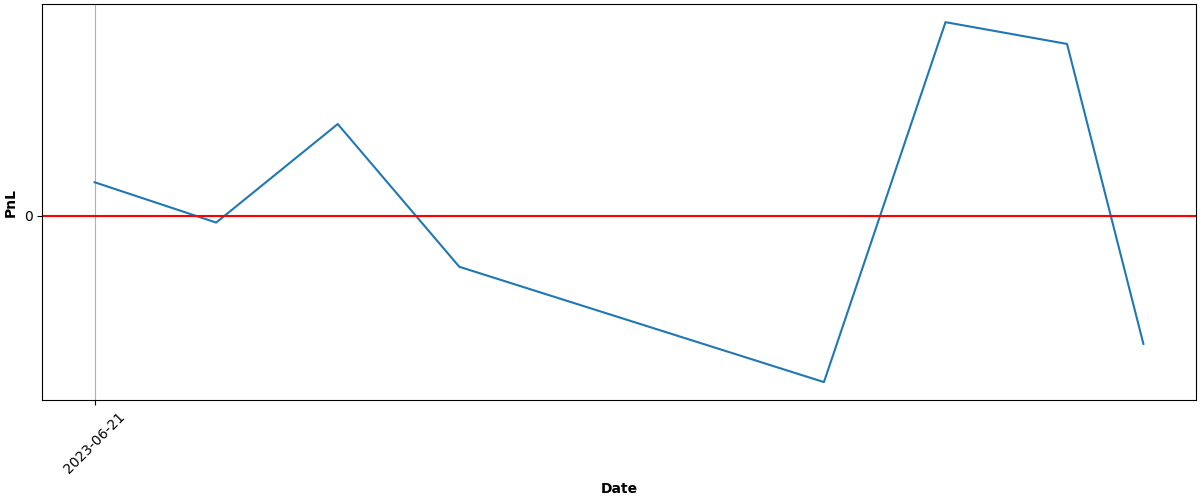
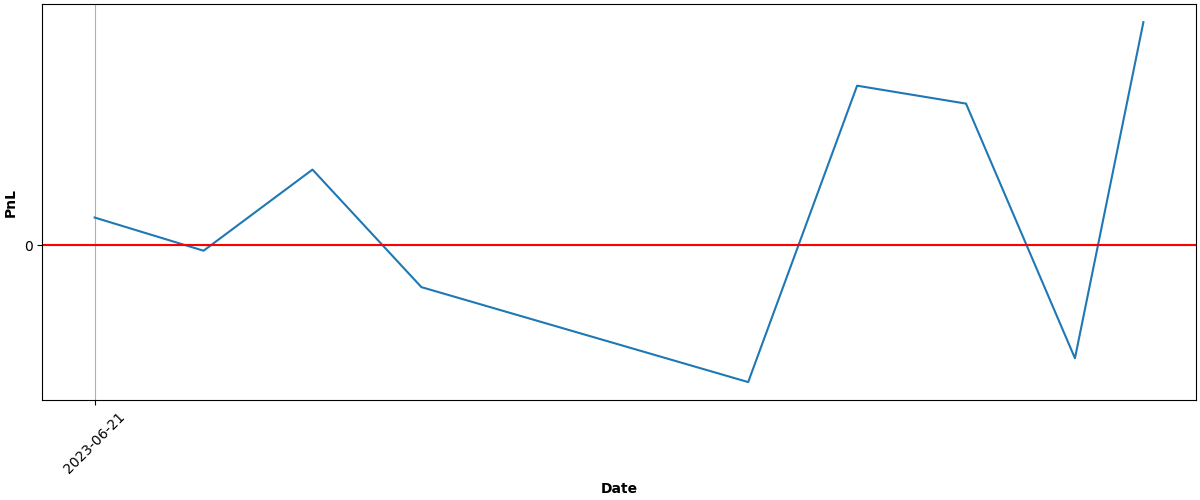
Automated Buy At Fri Jun 30 15:04:30 UTC 2023 Run ID 5424310747

diff --git a/README.md b/README.md
@@ -68,9 +68,9 @@ Results
 
 | Asset | Average Price | Current Price | ROI | 📈 |
 | --- | --- | --- | --- | --- |
-| FNGU | $180.089090275 | $178.8966 | -0.66% | &#128308;&#128546; |
-| SVIX | $26.2126 | $27.54 | 5.06% | &#128994;&#128515; |
-| **Total** |  |  | **2.18%** | &#128994;&#128518; |
+| FNGU | $181.091577928 | $189.5 | 4.64% | &#128994;&#128515; |
+| SVIX | $26.547475 | $28 | 5.47% | &#128994;&#128515; |
+| **Total** |  |  | **5.09%** | &#128994;&#128518; |
 
 ### PnL over time (calculations may not be accurate):
 
@@ -81,6 +81,6 @@ Results
 ---
 
 
-Updated at 2023-06-29 15:04:25
+Updated at 2023-06-30 15:04:49
 
 
